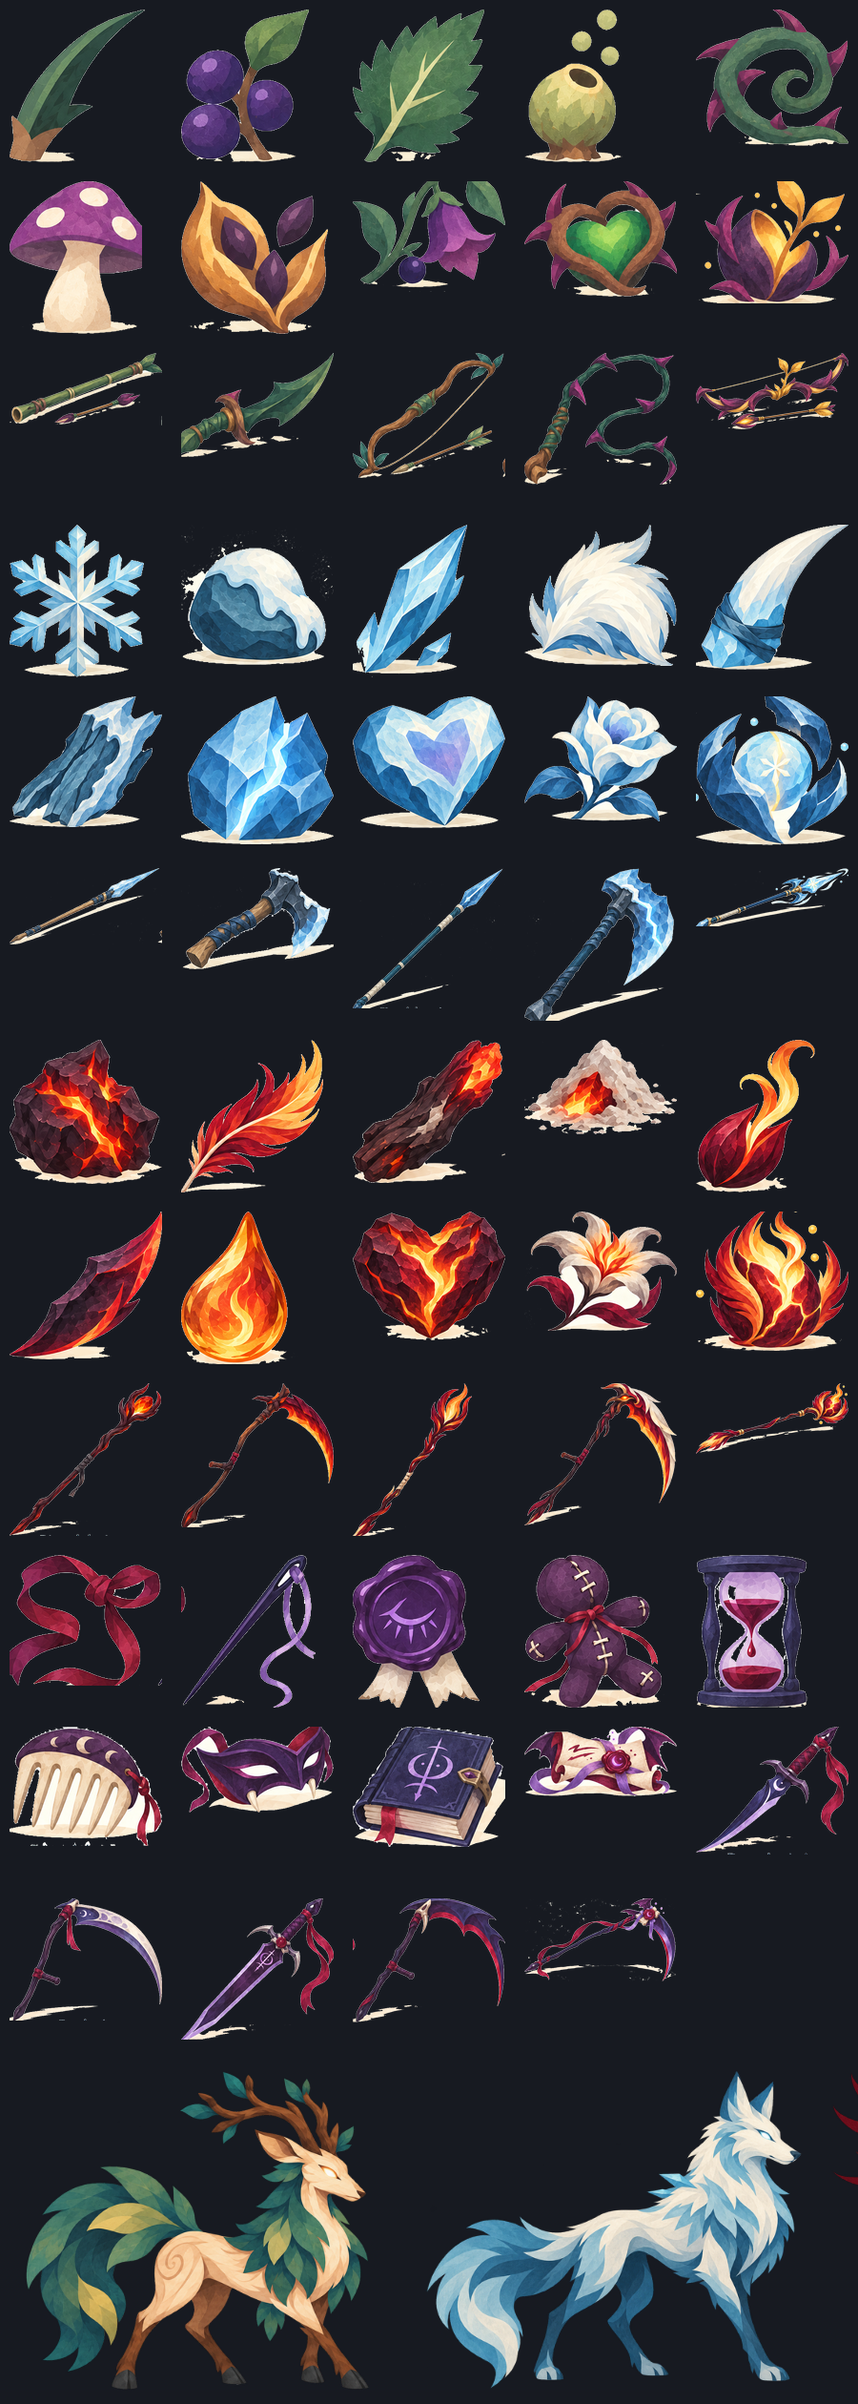
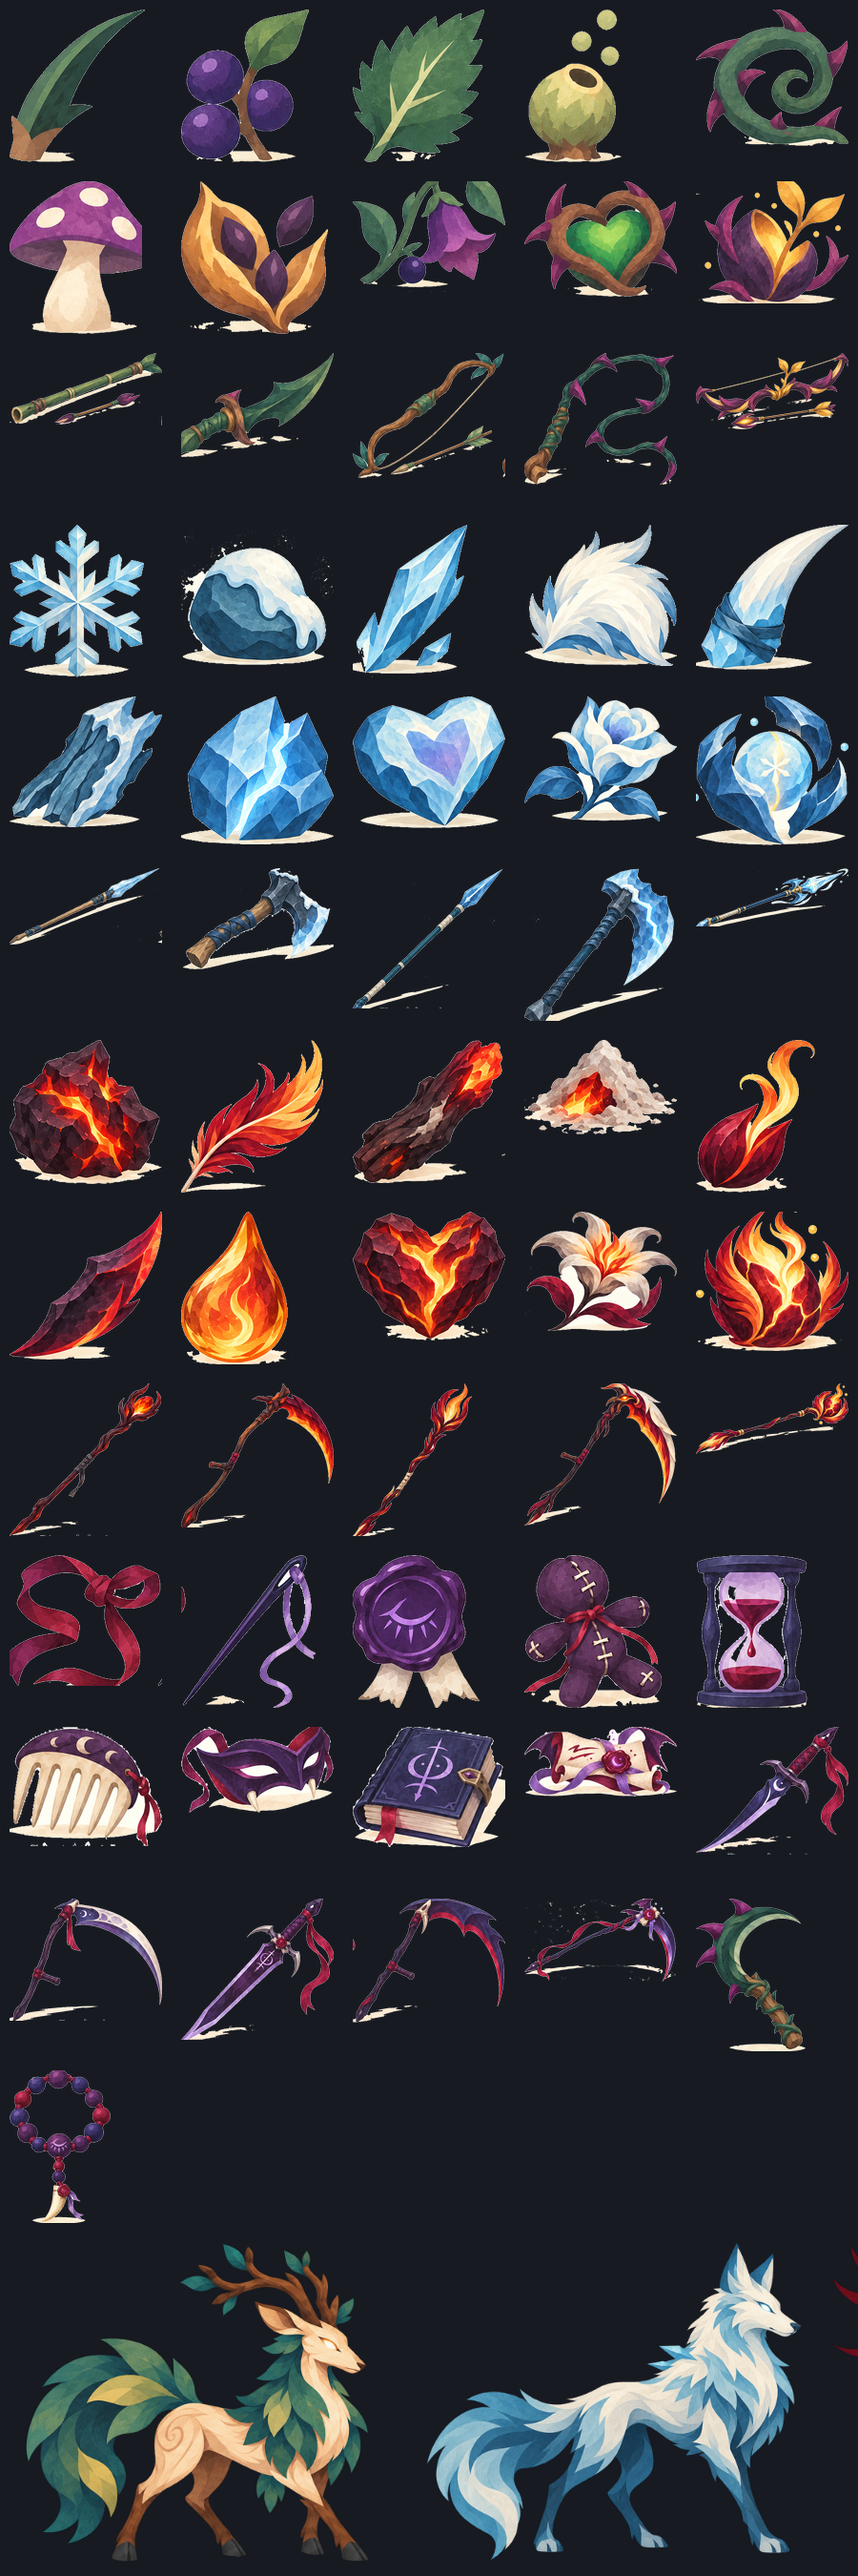
🖼 Ajoute les icônes du Chapelet des rancunes et de la Serpe de ronces

diff --git a/CONCEPTION.md b/CONCEPTION.md
@@ -376,8 +376,7 @@ Points ouverts :
 
 ### Nuit (Chauve-souris) : vol de vie et malédictions
 
-**Fait** (images de `images/`, sauf le Chapelet des rancunes : la planche montre encore la
-Coupelle d'étain, le Chapelet s'affiche en texte). Chiffres : malédictions 6 s, Faiblesse -15 %
+**Fait** (images de `images/`, le Chapelet et la Serpe de ronces dans `chapelet_serpe.png`). Chiffres : malédictions 6 s, Faiblesse -15 %
 de dégâts, Langueur -15 % de vitesse d'attaque, Flétrissure -30 % de soins par charge ; passif
 de la Chauve-souris **+12 % de dégâts par malédiction différente sur la cible** (sans lui, et
 sans attaque sur ses essences, elle ne faisait presque aucun dégât : 0,8 victoire en moyenne) ;
@@ -471,7 +470,6 @@ donne envie de refaire un Nid ? Si non, rien d'autre ne compte.
 ## 8. Plus tard
 
 - Formes de reliques et rotation.
-- Images manquantes : Chapelet des rancunes, Serpe de ronces.
 - Équilibrage : Nuit et Nature un cran sous les autres.
 - Une image pour la Serpe de ronces (le Fouet a été remplacé).
 - Refaire Feu, Nuit, Terre, Vent au format 15 objets, avec une ou deux familles d'armes chacun.
